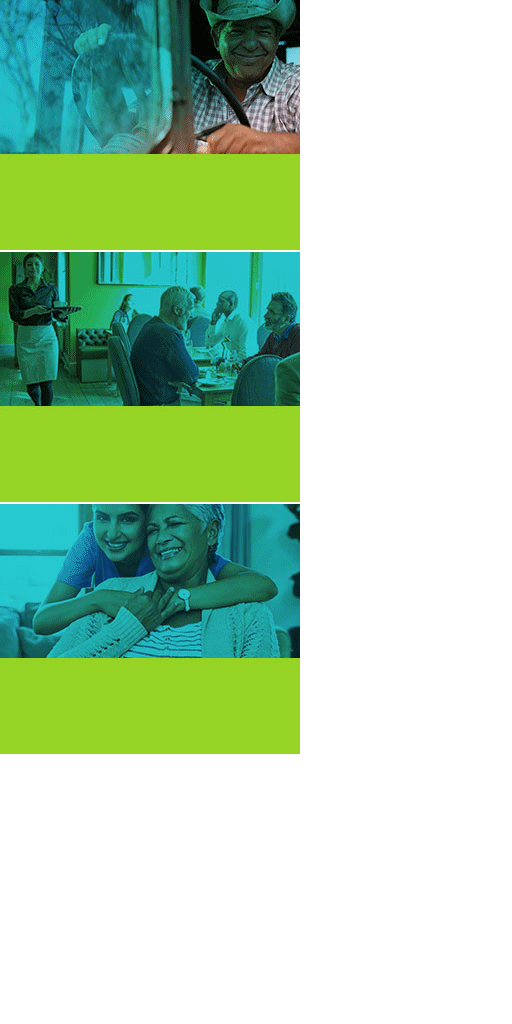
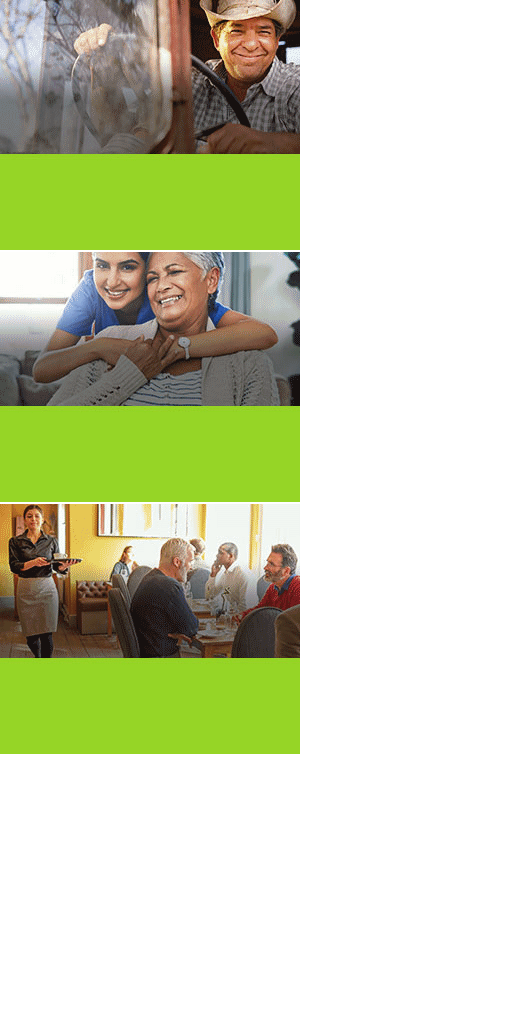
Add files via upload

Changed region(s): [[0.0, 0.4688, 0.5938, 0.6562], [0.0, 0.2188, 0.5938, 0.4062], [0.0, 0.0, 0.5938, 0.1562]]

diff --git a/JCC/foryou/300x250/JCC_ForYou_300x250.js b/JCC/foryou/300x250/JCC_ForYou_300x250.js
@@ -3,7 +3,7 @@
 var p; // shortcut to reference prototypes
 var lib={};var ss={};var img={};
 lib.ssMetadata = [
-		{name:"JCC_ForYou_300x250_atlas_", frames: [[0,0,300,250],[0,504,300,250],[0,252,300,250]]}
+		{name:"JCC_ForYou_300x250_atlas_", frames: [[0,0,300,250],[0,252,300,250],[0,504,300,250]]}
 ];
 
 
@@ -11,21 +11,21 @@ lib.ssMetadata = [
 
 
 
-(lib.JCC_300x250ForYoufarmer = function() {
+(lib.JCC_300x250ForYoufarmer2 = function() {
 	this.initialize(ss["JCC_ForYou_300x250_atlas_"]);
 	this.gotoAndStop(0);
 }).prototype = p = new cjs.Sprite();
 
 
 
-(lib.JCC_300x250ForYouladies = function() {
+(lib.JCC_300x250ForYouladies2 = function() {
 	this.initialize(ss["JCC_ForYou_300x250_atlas_"]);
 	this.gotoAndStop(1);
 }).prototype = p = new cjs.Sprite();
 
 
 
-(lib.JCC_300x250ForYouwaitress = function() {
+(lib.JCC_300x250ForYouwaitress2 = function() {
 	this.initialize(ss["JCC_ForYou_300x250_atlas_"]);
 	this.gotoAndStop(2);
 }).prototype = p = new cjs.Sprite();
@@ -157,7 +157,7 @@ function getMCSymbolPrototype(symbol, nominalBounds, frameBounds) {
 	this.initialize(mode,startPosition,loop,{});
 
 	// Layer_1
-	this.instance = new lib.JCC_300x250ForYouwaitress();
+	this.instance = new lib.JCC_300x250ForYouwaitress2();
 	this.instance.parent = this;
 	this.instance.setTransform(-150,-125);
 
@@ -170,7 +170,7 @@ function getMCSymbolPrototype(symbol, nominalBounds, frameBounds) {
 	this.initialize(mode,startPosition,loop,{});
 
 	// Layer_1
-	this.instance = new lib.JCC_300x250ForYouladies();
+	this.instance = new lib.JCC_300x250ForYouladies2();
 	this.instance.parent = this;
 	this.instance.setTransform(-150,-125);
 
@@ -183,7 +183,7 @@ function getMCSymbolPrototype(symbol, nominalBounds, frameBounds) {
 	this.initialize(mode,startPosition,loop,{});
 
 	// Layer_1
-	this.instance = new lib.JCC_300x250ForYoufarmer();
+	this.instance = new lib.JCC_300x250ForYoufarmer2();
 	this.instance.parent = this;
 	this.instance.setTransform(-150,-125);
 
@@ -879,7 +879,7 @@ p.nominalBounds = new cjs.Rectangle(47.7,49.2,693.3,228.10000000000002);
 	this.instance_3.setTransform(450,105.85);
 	this.instance_3._off = true;
 
-	this.timeline.addTween(cjs.Tween.get(this.instance_3).wait(134).to({_off:false},0).to({x:150},6,cjs.Ease.quintIn).wait(65).to({mode:"synched",startPosition:0},0).to({x:-150},6,cjs.Ease.quintIn).to({_off:true},1).wait(28));
+	this.timeline.addTween(cjs.Tween.get(this.instance_3).wait(134).to({_off:false},0).to({x:150},6,cjs.Ease.sineIn).wait(65).to({mode:"synched",startPosition:0},0).to({x:-150},6,cjs.Ease.sineIn).to({_off:true},1).wait(28));
 
 	// PIC3
 	this.instance_4 = new lib.PIC3();
@@ -887,7 +887,7 @@ p.nominalBounds = new cjs.Rectangle(47.7,49.2,693.3,228.10000000000002);
 	this.instance_4.setTransform(450,125);
 	this.instance_4._off = true;
 
-	this.timeline.addTween(cjs.Tween.get(this.instance_4).wait(138).to({_off:false},0).to({x:150},6,cjs.Ease.quintIn).wait(64).to({mode:"synched",startPosition:0},0).to({x:-150},6,cjs.Ease.quintIn).to({_off:true},1).wait(25));
+	this.timeline.addTween(cjs.Tween.get(this.instance_4).wait(134).to({_off:false},0).to({x:150},6,cjs.Ease.sineIn).wait(65).to({mode:"synched",startPosition:0},0).to({x:-150},6,cjs.Ease.sineIn).to({_off:true},1).wait(28));
 
 	// HEAD2
 	this.instance_5 = new lib.HEAD2();
@@ -895,7 +895,7 @@ p.nominalBounds = new cjs.Rectangle(47.7,49.2,693.3,228.10000000000002);
 	this.instance_5.setTransform(450,105.85);
 	this.instance_5._off = true;
 
-	this.timeline.addTween(cjs.Tween.get(this.instance_5).wait(62).to({_off:false},0).to({x:150},6,cjs.Ease.quintIn).wait(66).to({mode:"synched",startPosition:0},0).to({x:-150},6,cjs.Ease.quintIn).to({_off:true},1).wait(99));
+	this.timeline.addTween(cjs.Tween.get(this.instance_5).wait(62).to({_off:false},0).to({x:150},6,cjs.Ease.sineIn).wait(66).to({mode:"synched",startPosition:0},0).to({x:-150},6,cjs.Ease.sineIn).to({_off:true},1).wait(99));
 
 	// PIC2
 	this.instance_6 = new lib.PIC2();
@@ -903,21 +903,21 @@ p.nominalBounds = new cjs.Rectangle(47.7,49.2,693.3,228.10000000000002);
 	this.instance_6.setTransform(450,125);
 	this.instance_6._off = true;
 
-	this.timeline.addTween(cjs.Tween.get(this.instance_6).wait(66).to({_off:false},0).to({x:150},6,cjs.Ease.quintIn).wait(66).to({mode:"synched",startPosition:0},0).to({x:-150},6,cjs.Ease.quintIn).to({_off:true},1).wait(95));
+	this.timeline.addTween(cjs.Tween.get(this.instance_6).wait(62).to({_off:false},0).to({x:150},6,cjs.Ease.sineIn).wait(66).to({mode:"synched",startPosition:0},0).to({x:-150},6,cjs.Ease.sineIn).to({_off:true},1).wait(99));
 
 	// HEAD1
 	this.instance_7 = new lib.HEAD1();
 	this.instance_7.parent = this;
-	this.instance_7.setTransform(150,105.85);
+	this.instance_7.setTransform(150,97);
 
-	this.timeline.addTween(cjs.Tween.get(this.instance_7).wait(62).to({mode:"synched",startPosition:0},0).to({x:-150},6,cjs.Ease.quintIn).to({_off:true},1).wait(171));
+	this.timeline.addTween(cjs.Tween.get(this.instance_7).wait(62).to({mode:"synched",startPosition:0},0).to({x:-150},6,cjs.Ease.sineIn).to({_off:true},1).wait(171));
 
 	// PIC1
 	this.instance_8 = new lib.PIC1();
 	this.instance_8.parent = this;
 	this.instance_8.setTransform(150,125);
 
-	this.timeline.addTween(cjs.Tween.get(this.instance_8).wait(66).to({mode:"synched",startPosition:0},0).to({x:-150},6,cjs.Ease.quintIn).to({_off:true},1).wait(167));
+	this.timeline.addTween(cjs.Tween.get(this.instance_8).wait(62).to({mode:"synched",startPosition:0},0).to({x:-150},6,cjs.Ease.sineIn).to({_off:true},1).wait(171));
 
 	// BKGD
 	this.shape_2 = new cjs.Shape();
@@ -941,7 +941,7 @@ lib.properties = {
 	color: "#999999",
 	opacity: 1.00,
 	manifest: [
-		{src:"images/JCC_ForYou_300x250_atlas_.png?1572207660584", id:"JCC_ForYou_300x250_atlas_"}
+		{src:"images/JCC_ForYou_300x250_atlas_.png?1572918343682", id:"JCC_ForYou_300x250_atlas_"}
 	],
 	preloads: []
 };

diff --git a/JCC/foryou/300x250/JCC_ForYou_300x250.html b/JCC/foryou/300x250/JCC_ForYou_300x250.html
@@ -19,7 +19,7 @@ var clickTag = "https://www.careoregon.org/ohp"; </script>
 <!-- DCM/Google/DoubleClick: Change external scripts URL to <script src="https://s0.2mdn.net/ads/studio/cached_libs/createjs_2015.11.26_54e1c3722102182bb133912ad4442e19_min.js"></script> -->
 <!-- Remove garbage after .js -->
 <script src="https://code.createjs.com/createjs-2015.11.26.min.js"></script>
-<script src="JCC_ForYou_300x250.js?1572207584449"></script>
+<script src="JCC_ForYou_300x250.js?1572918343827"></script>
 <script>
 var canvas, stage, exportRoot, anim_container, dom_overlay_container, fnStartAnimation;
 function init() {
